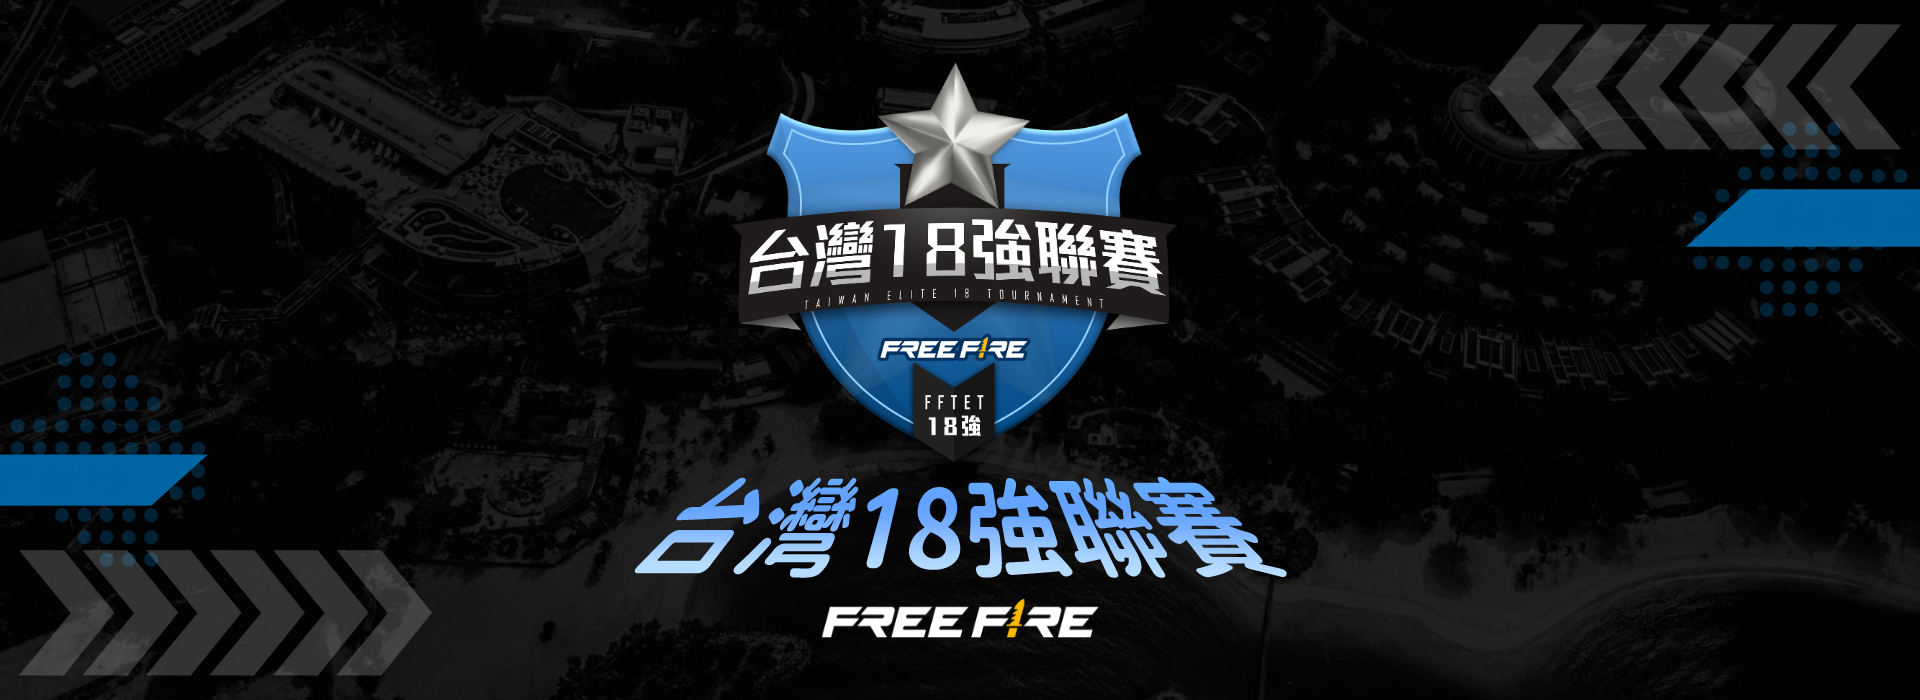
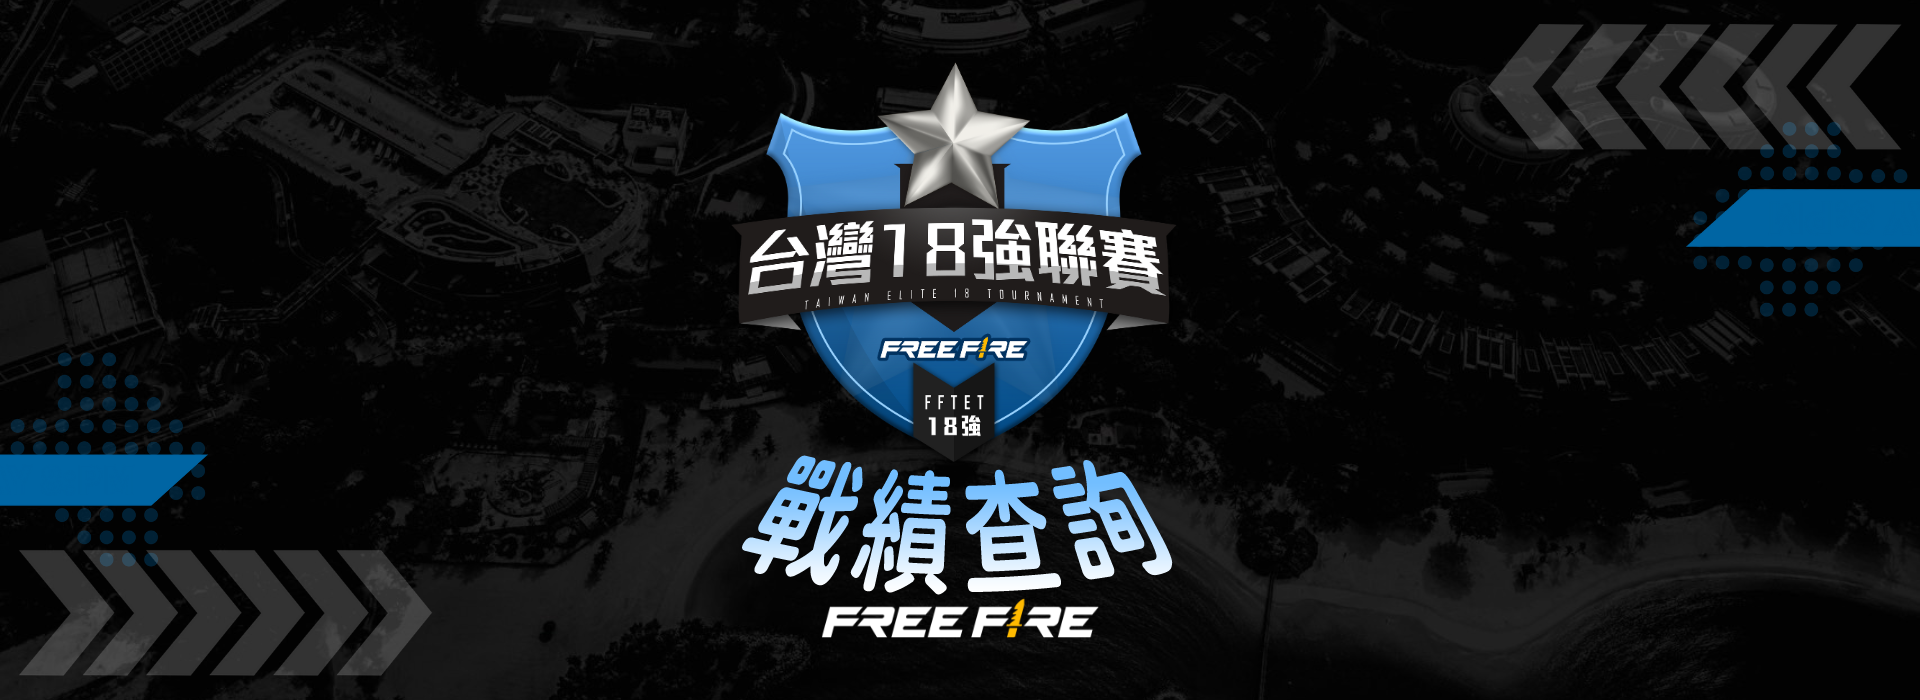
Add files via upload

Changed region(s): [[0.3125, 0.66, 0.6875, 0.87]]

diff --git a/FFTET/record.html b/FFTET/record.html
@@ -25,7 +25,7 @@
     <meta name="viewport" content="width=device-width, initial-scale=1, maximum-scale=1">
     <meta property="og:type" content="website">
     <meta property="og:site_name" content="快揪最佳戰友一同出戰爭奪高額獎金，更有機會站上世界舞台挑戰地表最強好手!">
-    <meta property="og:title" content="《2024 FF 春季榮耀菁英盃》龍聚榮耀！菁英共舞">
+    <meta property="og:title" content="FFTET戰績查詢">
     <meta property="og:image" content="https://ffcup.ff.garena.tw/django-static/event/images/1200x630.jpg">
     <meta property="og:description" content="全新賽制與賽程，趕緊手刀報名，考驗你的硬實力！">
     <script type="text/javascript" src="./record_files/jquery-2.0.3.min.js.下載"></script>
@@ -67,8 +67,8 @@
             <li> <a id="nav_inform" href="https://ffenen.com/FFTET#arrowmove"><img src="./record_files/nav1.png"><img src="./record_files/nav1_ov.png"></a> </li>
             <li> <a id="nav_contest_rules" href="https://ffenen.com/FFTET/rules#arrowmove"><img src="./record_files/nav2.png"><img src="./record_files/nav2_ov.png"></a> </li>
 			<li> <a id="nav_contest_rules" href="https://ffenen.com/FFTET/choose"><img src="./record_files/nav3.png"><img src="./record_files/nav3_ov.png"></a> </li>
-            <li> <a id="nav_apply_rules" href="https://ffenen.com/FFTET/apply#arrowmove" class="nav-active"><img src="./record_files/nav4.png"><img src="./record_files/nav4_ov.png"></a> </li>
-            <li> <a id="nav_record" href="https://ffenen.com/FFTET/record#arrwmove"><img src="./record_files/nav5.png"><img src="./record_files/nav5_ov.png"></a> </li>
+            <li> <a id="nav_apply_rules" href="https://ffenen.com/FFTET/apply#arrowmove" ><img src="./record_files/nav4.png"><img src="./record_files/nav4_ov.png"></a> </li>
+            <li> <a id="nav_record" href="https://ffenen.com/FFTET/record#arrwmove"class="nav-active"><img src="./record_files/nav5.png"><img src="./record_files/nav5_ov.png"></a> </li>
             
             <li> <a id="nav_schedule" href="https://ffenen.com/FFTET/channel" target="_blank"><img src="./record_files/nav6.png"><img src="./record_files/nav6_ov.png"></a> </li>
             
@@ -86,8 +86,8 @@
             <li> <a id="nav_inform" href="https://ffenen.com/FFTET#arrowmove"><img src="./apply_files/nav1.png"><img src="./apply_files/nav1_ov.png"></a> </li>
             <li> <a id="nav_contest_rules" href="https://ffenen.com/FFTET/rules#arrowmove"><img src="./apply_files/nav2.png"><img src="./apply_files/nav2_ov.png"></a> </li>
 			<li> <a id="nav_contest_rules" href="https://ffenen.com/FFTET/choose"><img src="./apply_files/nav3.png"><img src="./apply_files/nav3_ov.png"></a> </li>
-            <li> <a id="nav_apply_rules" href="https://ffenen.com/FFTET/apply#arrowmove" class="nav-active"><img src="./apply_files/nav4.png"><img src="./apply_files/nav4_ov.png"></a> </li>
-            <li> <a id="nav_record" href="https://ffenen.com/FFTET/record#arrowmove"><img src="./apply_files/nav5.png"><img src="./apply_files/nav5_ov.png"></a> </li>
+            <li> <a id="nav_apply_rules" href="https://ffenen.com/FFTET/apply#arrowmove"><img src="./apply_files/nav4.png"><img src="./apply_files/nav4_ov.png"></a> </li>
+            <li> <a id="nav_record" href="https://ffenen.com/FFTET/record#arrowmove" class="nav-active"><img src="./apply_files/nav5.png"><img src="./apply_files/nav5_ov.png"></a> </li>
             
             <li> <a id="nav_schedule" href="https://ffenen.com/FFTET/channel" target="_blank"><img src="./apply_files/nav6.png"><img src="./apply_files/nav6_ov.png"></a> </li>
             
@@ -102,62 +102,35 @@
 <section id="s2">
     <div class="inner-container">
         <div data-aos="fade-down" data-aos-delay="10" class="title aos-init"><img src="./record_files/titlecon1.png" alt=""></div>
+        <h2>小組賽 18 組總積分</h2>
+        
         <div class="warnbox">
-    <iframe id="content-frame" src="http://league.ffenen.com/HTML_RANK.html" style="width: 100%; height: 1300px; border: none;"></iframe>
-    <button id="refresh-button" onclick="refreshIframe()">重整TOP18成績</button>
-</div>
-
+            <iframe id="content-frame1" src="http://league.ffenen.com/HTML_RANK.html" style="width: 100%; height: 1100px; border: none;"></iframe>
+            <button id="refresh-button1" onclick="refreshIframe1()">重整TOP18成績</button>
+        </div>
     </div>
-</section>
-
-<section id="s2">
-<style>
-    #refresh-button {
-        display: block;
-        margin: 20px auto;
-        padding: 10px 20px;
-        background-color: #589eff; /* 自訂按鈕背景顏色 */
-        color: rgb(255, 255, 255); /* 自訂按鈕文字顏色 */
-        border: none;
-        border-radius: 5px;
-        cursor: pointer;
-        font-size: 16px;
-    }
-
-    #refresh-button:hover {
-        background-color: #d0d700; /* 自訂按鈕懸停背景顏色 */
-    }
-
-    .warnbox {
-        background-color: #3a3a3a; /* 灰色背景 */
-        padding: 20px;
-        text-align: center;
-    }
-    <body data-aos-easing="ease-in-out-back" data-aos-duration="1000" data-aos-delay="0" style="overflow: hidden;">
-
-</style>
-
-<script>
-    function refreshIframe() {
-        var iframe = document.getElementById('content-frame');
-        iframe.src = iframe.src;
-    }
-</script>
 </section>
 
 <section id="s2">
     <div class="inner-container">
-<div class="warnbox">
-    <iframe id="content-frame" src="http://league.ffenen.com/HTML_RANK2.html" style="width: 100%; height: 700px; border: none;"></iframe>
-    <button id="refresh-button" onclick="refreshIframe()">重整TOP12成績</button>
-</div>
-
+        <div data-aos="fade-down" data-aos-delay="10" class="title aos-init"><img src="./record_files/titlecon2.png" alt=""></div>
+        <h2>總決賽 12 組總積分</h2>
+        
+        <div class="warnbox">
+            <iframe id="content-frame2" src="http://league.ffenen.com/HTML_RANK2.html" style="width: 100%; height: 700px; border: none;"></iframe>
+            <button id="refresh-button2" onclick="refreshIframe2()">重整TOP12成績</button>
+        </div>
     </div>
 </section>
 
-<section id="s2">
 <style>
-    #refresh-button {
+    .warnbox {
+        background-color: #3a3a3a; /* 灰色背景 */
+        padding: 20px;
+        text-align: center;
+    }
+
+    .warnbox button {
         display: block;
         margin: 20px auto;
         padding: 10px 20px;
@@ -169,27 +142,24 @@
         font-size: 16px;
     }
 
-    #refresh-button:hover {
+    .warnbox button:hover {
         background-color: #d0d700; /* 自訂按鈕懸停背景顏色 */
     }
-
-    .warnbox {
-        background-color: #3a3a3a; /* 灰色背景 */
-        padding: 20px;
-        text-align: center;
-    }
-    <body data-aos-easing="ease-in-out-back" data-aos-duration="1000" data-aos-delay="0" style="overflow: hidden;">
-
 </style>
 
 <script>
-    function refreshIframe() {
-        var iframe = document.getElementById('content-frame');
+    function refreshIframe1() {
+        var iframe = document.getElementById('content-frame1');
+        iframe.src = iframe.src;
+    }
+
+    function refreshIframe2() {
+        var iframe = document.getElementById('content-frame2');
         iframe.src = iframe.src;
     }
 </script>
 
-</section>
+
 
 <footer>
     <div id="footerswarp" class="footerbg">

diff --git a/FFTET/record_files/style.css b/FFTET/record_files/style.css
@@ -96,7 +96,11 @@ video {
       height:50%;
     }
   }
-  
+
+
+
+
+
   
   #s2 h2 {
       font-size: 30px; /* 調整字體大小 */
@@ -470,7 +474,7 @@ img.imgcenter {
     min-width: 1100px;
     overflow: hidden;
     height: 95vh;
-    background: #000000 url(../apply_files/報名up.png) 50% top no-repeat;
+    background: #000000 url(../record_files/bgup.png) 50% top no-repeat;
     background-size: cover;
     border-bottom: 2px solid #FFFFFF;
     position: relative;
@@ -5442,7 +5446,7 @@ perspective effects (not including the modals and the overlay).
     }
 
     #header {
-        background: #0b1d29 url("../apply_files/報名up.png") 50% top no-repeat;
+        background: #0b1d29 url("../record_files/bgup.png") 50% top no-repeat;
         background-size: 100%;
         background: contain;
         background-size: cover;
